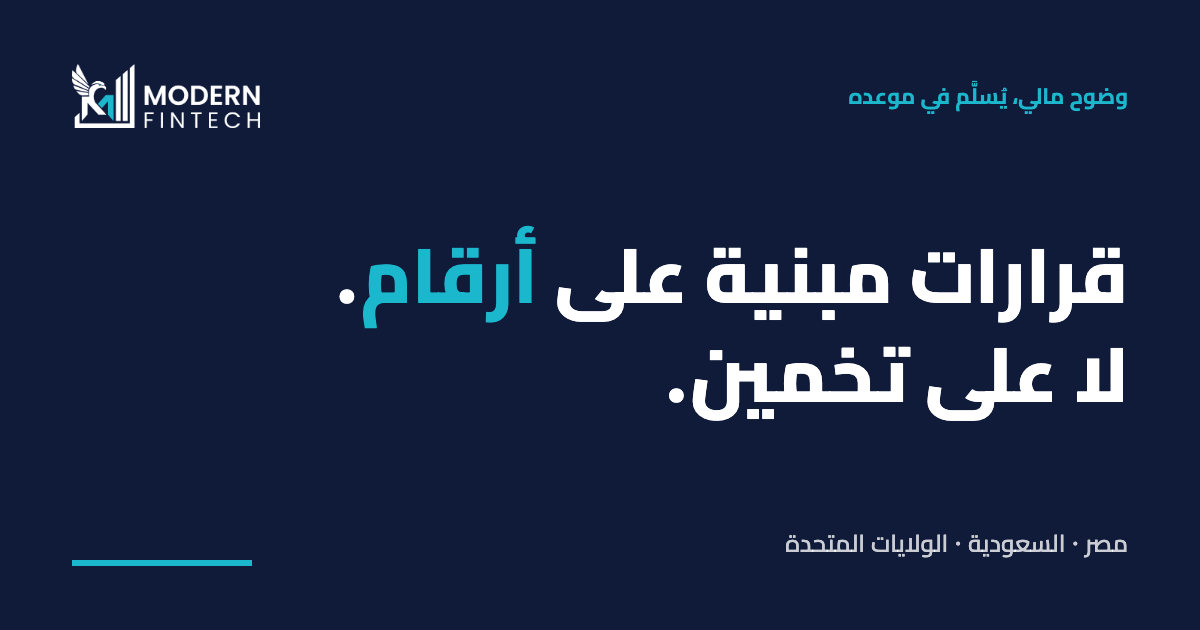
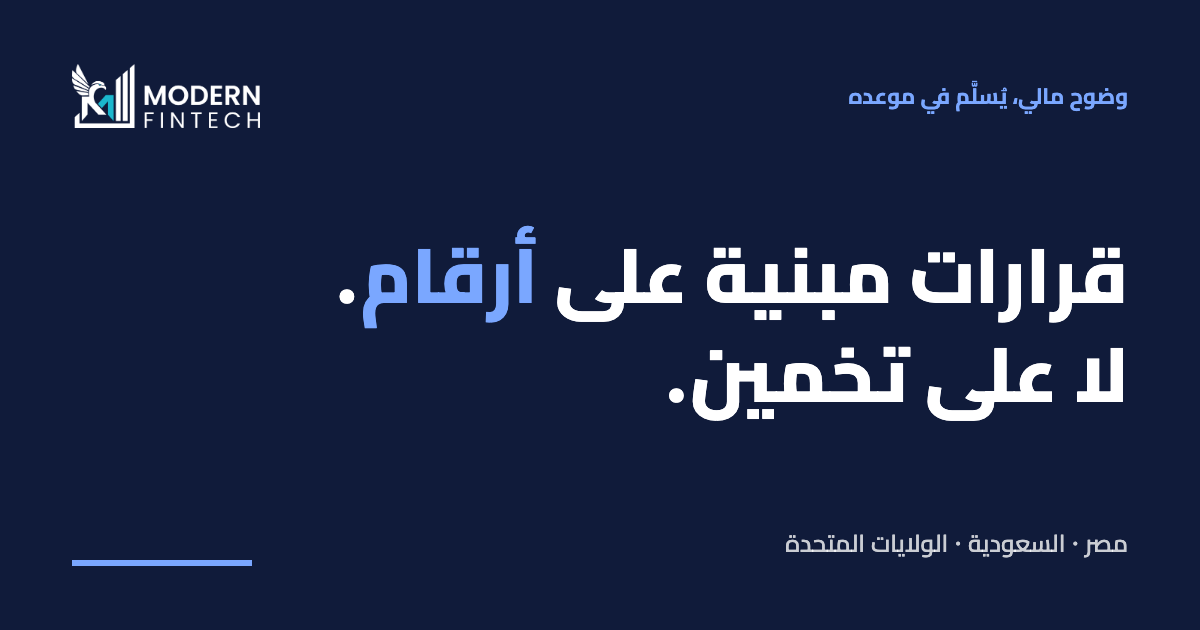
Design system: primary colour switched from cyan to fintech blue (CEO decision)
--blue #1F5FE0 for buttons/fills/rules (white text 5.6:1), --blue-text #1A52C7
for text on light (6.8:1), --blue-on-navy #7AA7FF on navy (7.1:1). Credentials
band is now blue with white text. Logo keeps its cyan; checker fails if the UI
uses it. OG images regenerated.

Changed region(s): [[0.2775, 0.3619, 0.4625, 0.5127], [0.7092, 0.1206, 0.9558, 0.181], [0.0617, 0.8746, 0.2158, 0.9048]]

diff --git a/src/styles/main.css b/src/styles/main.css
@@ -1,6 +1,7 @@
 /* =====================================================================
    MFT website — single stylesheet. No preprocessor, no framework.
-   Brand: navy #101B3A · cyan #1BB7CD · gold #C9A227 · white · mist #F5F7FA
+   Brand: navy #101B3A · blue #1F5FE0 (primary, CEO decision 11 Sep 2026) · gold #C9A227 · white · mist #F5F7FA
+   The logo keeps its cyan #1BB7CD; the UI accent is blue.
    Fonts: Inter (Latin/digits) → Cairo (Arabic). Never letter-space Arabic.
    ===================================================================== */
 
@@ -26,8 +27,12 @@
 :root {
   /* brand */
   --navy: #101B3A;
-  --cyan: #1BB7CD;          /* fills and accents on navy only — 2.4:1 on white, NOT for text on light */
-  --cyan-text: #0E7C8C;     /* same hue, darkened for text on white/mist — 4.9:1 (WCAG AA) */
+  --blue: #1F5FE0;          /* primary: buttons, fills, rules, dots — white text on it = 5.6:1 */
+  --blue-text: #1A52C7;     /* blue for text on white/mist — 6.8:1 (WCAG AA) */
+  --blue-on-navy: #7AA7FF;  /* blue accent on navy sections — 7.1:1; never on white (2.4:1) */
+  --blue-hover: #1A52C7;
+  --blue-tint: rgba(31, 95, 224, 0.12);
+  --cyan: #1BB7CD;          /* logo colour only — not used for UI */
   --gold: #C9A227;          /* one decorative rule per page, never text */
   --white: #FFFFFF;
   --mist: #F5F7FA;
@@ -42,7 +47,7 @@
   --line: #E6E9F0;
   --line-strong: #6B7390;   /* input borders — 4.7:1 on white (non-text ≥ 3:1) */
   --navy-line: rgba(255, 255, 255, 0.12);
-  --shadow-cta: 0 4px 14px rgba(27, 183, 205, 0.35);
+  --shadow-cta: 0 4px 14px rgba(31, 95, 224, 0.30);
   --shadow-card: 0 20px 50px rgba(16, 27, 58, 0.15);
   /* type scale — three sizes per view: display/heading, body, small */
   --fs-display: clamp(2.25rem, 1.35rem + 3.4vw, 4rem);     /* 36 → 64px */
@@ -83,7 +88,7 @@ h1, .display { font-size: var(--fs-display); }
 h2 { font-size: var(--fs-h2); line-height: 1.15; }
 h3 { font-size: var(--fs-body); line-height: 1.35; }
 button, input, select, textarea { font: inherit; color: inherit; }
-::selection { background: var(--cyan); color: var(--navy); }
+::selection { background: var(--blue); color: var(--white); }
 
 /* Arabic: Cairo needs more leading; no tracking, no uppercase. */
 [dir="rtl"] body, [lang="ar"] { line-height: 1.8; }
@@ -111,9 +116,9 @@ button, input, select, textarea { font: inherit; color: inherit; }
   position: absolute; inset-inline-start: 16px; top: -100px; z-index: 100;
   padding: 10px 16px; background: var(--navy); color: var(--white); border-radius: var(--radius); font-weight: 700;
 }
-.skip-link:focus { top: 12px; outline: 3px solid var(--cyan); outline-offset: 2px; }
+.skip-link:focus { top: 12px; outline: 3px solid var(--blue-on-navy); outline-offset: 2px; }
 :focus-visible { outline: 3px solid var(--navy); outline-offset: 3px; border-radius: 3px; }
-.section-navy :focus-visible, .cta-band :focus-visible, .site-footer :focus-visible, .hero-b-left :focus-visible { outline-color: var(--cyan); }
+.section-navy :focus-visible, .cta-band :focus-visible, .site-footer :focus-visible, .hero-b-left :focus-visible { outline-color: var(--blue-on-navy); }
 
 /* ---------- Type components ---------- */
 .eyebrow {
@@ -122,12 +127,12 @@ button, input, select, textarea { font: inherit; color: inherit; }
   font-weight: 700;
   letter-spacing: 2px;
   text-transform: uppercase;
-  color: var(--cyan-text);
+  color: var(--blue-text);
 }
-.section-navy .eyebrow, .hero-b-left .eyebrow { color: var(--cyan); }
-.section-cyan .eyebrow { color: var(--navy); }
-.accent { color: var(--cyan-text); }
-.section-navy .accent, .hero-b .accent { color: var(--cyan); }
+.section-navy .eyebrow, .hero-b-left .eyebrow { color: var(--blue-on-navy); }
+.section-blue .eyebrow { color: var(--white); }
+.accent { color: var(--blue-text); }
+.section-navy .accent, .hero-b .accent { color: var(--blue-on-navy); }
 .lead { font-size: var(--fs-body); color: var(--ink-2); max-width: 62ch; }
 .section-navy .lead, .cta-band .lead { color: var(--on-navy-2); }
 .num {
@@ -136,9 +141,9 @@ button, input, select, textarea { font: inherit; color: inherit; }
   font-size: var(--fs-small);
   font-weight: 700;
   letter-spacing: 1px;
-  color: var(--cyan-text);
+  color: var(--blue-text);
 }
-.section-navy .num { color: var(--cyan); }
+.section-navy .num { color: var(--blue-on-navy); }
 
 /* ---------- Buttons ---------- */
 .btn {
@@ -150,17 +155,17 @@ button, input, select, textarea { font: inherit; color: inherit; }
 }
 .btn-lg { min-height: 52px; padding: 14px 30px; font-weight: 800; }
 .btn-sm { min-height: 40px; padding: 8px 18px; font-size: var(--fs-small); }
-.btn-primary { background: var(--cyan); color: var(--navy); box-shadow: var(--shadow-cta); }
-.btn-primary:hover { background: #22C4DB; transform: translateY(-1px); }
+.btn-primary { background: var(--blue); color: var(--white); box-shadow: var(--shadow-cta); }
+.btn-primary:hover { background: var(--blue-hover); transform: translateY(-1px); }
 .btn-primary:active { transform: translateY(0); }
 .btn-navy { background: var(--navy); color: var(--white); }
 .btn-navy:hover { background: #1A2A57; }
 .btn-link {
   padding-inline: 0; min-height: 0; border: 0; border-radius: 0;
-  color: var(--cyan-text); font-weight: 700; text-decoration: underline; text-underline-offset: 4px; text-decoration-thickness: 2px; text-decoration-color: transparent;
+  color: var(--blue-text); font-weight: 700; text-decoration: underline; text-underline-offset: 4px; text-decoration-thickness: 2px; text-decoration-color: transparent;
 }
 .btn-link:hover { text-decoration-color: currentColor; }
-.section-navy .btn-link, .cta-band .btn-link { color: var(--cyan); }
+.section-navy .btn-link, .cta-band .btn-link { color: var(--blue-on-navy); }
 
 /* ---------- Header ---------- */
 .site-header {
@@ -181,7 +186,7 @@ button, input, select, textarea { font: inherit; color: inherit; }
   border-bottom: 2px solid transparent;
 }
 .site-nav ul a:hover { color: var(--navy); }
-.site-nav ul a[aria-current="page"] { color: var(--navy); border-bottom-color: var(--cyan); }
+.site-nav ul a[aria-current="page"] { color: var(--navy); border-bottom-color: var(--blue); }
 .nav-actions { display: flex; align-items: center; gap: 18px; }
 .lang-switch { font-size: var(--fs-small); font-weight: 700; color: var(--ink-2); padding: 8px 4px; }
 .lang-switch:hover { color: var(--navy); }
@@ -209,7 +214,7 @@ button, input, select, textarea { font: inherit; color: inherit; }
   .site-header.nav-open .site-nav { display: flex; }
   .site-nav ul { flex-direction: column; align-items: stretch; gap: 0; }
   .site-nav ul a { display: block; padding: 14px 0; font-size: var(--fs-body); border-bottom: 1px solid var(--line); }
-  .site-nav ul a[aria-current="page"] { border-bottom-color: var(--line); color: var(--cyan-text); }
+  .site-nav ul a[aria-current="page"] { border-bottom-color: var(--line); color: var(--blue-text); }
   .nav-actions { justify-content: space-between; padding-top: 16px; }
 }
 
@@ -217,7 +222,7 @@ button, input, select, textarea { font: inherit; color: inherit; }
 .section { padding-block: var(--section); }
 .section-mist { background: var(--mist); }
 .section-navy { background: var(--navy); color: var(--on-navy); }
-.section-cyan { background: var(--cyan); color: var(--navy); }
+.section-blue { background: var(--blue); color: var(--white); }
 .section-head { max-width: 820px; margin-bottom: clamp(32px, 4vw, 48px); }
 .section-head .lead { margin-top: 18px; }
 .section-foot { margin-top: clamp(28px, 4vw, 40px); }
@@ -249,7 +254,8 @@ button, input, select, textarea { font: inherit; color: inherit; }
   margin-top: clamp(40px, 6vw, 56px); padding: 28px 0 40px; border-top: 1px solid var(--line);
 }
 .badge { display: flex; align-items: center; gap: 10px; font-size: var(--fs-small); font-weight: 700; color: var(--ink-2); }
-.dot { flex: none; width: 8px; height: 8px; border-radius: 50%; background: var(--cyan); }
+.dot { flex: none; width: 8px; height: 8px; border-radius: 50%; background: var(--blue); }
+.section-navy .dot { background: var(--blue-on-navy); }
 .section-navy .badge { color: var(--on-navy-2); }
 
 /* ---------- Hero B (split dashboard) ---------- */
@@ -263,16 +269,16 @@ button, input, select, textarea { font: inherit; color: inherit; }
 .dashboard-card { width: 100%; max-width: 520px; padding: 28px; background: var(--white); border-radius: 10px; box-shadow: var(--shadow-card); }
 .dc-header { display: flex; justify-content: space-between; align-items: center; margin-bottom: 20px; }
 .dc-title { font-weight: 700; }
-.dc-badge { padding: 4px 10px; border-radius: 4px; background: rgba(27, 183, 205, 0.14); color: var(--cyan-text); font-size: var(--fs-small); font-weight: 700; letter-spacing: 0.5px; }
+.dc-badge { padding: 4px 10px; border-radius: 4px; background: var(--blue-tint); color: var(--blue-text); font-size: var(--fs-small); font-weight: 700; letter-spacing: 0.5px; }
 .kpi-row { display: grid; grid-template-columns: repeat(3, 1fr); gap: 12px; margin-bottom: 24px; }
 .kpi { padding: 14px; background: var(--mist); border-radius: 8px; }
 .kpi-label { font-size: var(--fs-small); font-weight: 600; color: var(--ink-3); text-transform: uppercase; letter-spacing: 0.5px; }
 .kpi-value { margin-top: 6px; font-size: 1.375rem; font-weight: 800; color: var(--navy); }
-.kpi-value.up { color: var(--cyan-text); }
+.kpi-value.up { color: var(--blue-text); }
 .chart-area { border-top: 1px solid var(--line); padding-top: 16px; }
 .bars { display: flex; align-items: flex-end; gap: 10px; height: 130px; }
 .bar { flex: 1; background: var(--navy); border-radius: 3px 3px 0 0; }
-.bar.accent { background: var(--cyan); }
+.bar.accent { background: var(--blue); }
 .chart-caption { margin-top: 10px; font-size: var(--fs-small); font-weight: 600; color: var(--ink-3); text-transform: uppercase; letter-spacing: 0.3px; }
 @media (max-width: 899px) {
   .hero-b { grid-template-columns: 1fr; }
@@ -290,8 +296,8 @@ button, input, select, textarea { font: inherit; color: inherit; }
 .card p { color: var(--ink-2); }
 .card-more { margin-top: 14px; }
 .service-card a { display: inline-block; }
-.service-card a:hover { color: var(--cyan-text); text-decoration: underline; text-underline-offset: 4px; }
-.pillar { padding: 28px; border-top: 3px solid var(--cyan); background: var(--mist); border-radius: 0 0 var(--radius) var(--radius); }
+.service-card a:hover { color: var(--blue-text); text-decoration: underline; text-underline-offset: 4px; }
+.pillar { padding: 28px; border-top: 3px solid var(--blue); background: var(--mist); border-radius: 0 0 var(--radius) var(--radius); }
 .pillar h3 { margin-bottom: 10px; }
 .pillar p { color: var(--ink-2); }
 .step { padding-top: 20px; border-top: 1px solid var(--navy-line); }
@@ -314,15 +320,15 @@ button, input, select, textarea { font: inherit; color: inherit; }
 
 /* Facts (cyan band) */
 .facts { gap: 24px; }
-.fact { display: flex; flex-direction: column; gap: 6px; padding-top: 18px; border-top: 2px solid var(--navy); }
-.fact-value { font-size: var(--fs-display); font-weight: 800; line-height: 1; color: var(--navy); }
-.fact-label { font-size: var(--fs-small); font-weight: 700; color: var(--navy); }
+.fact { display: flex; flex-direction: column; gap: 6px; padding-top: 18px; border-top: 2px solid rgba(255, 255, 255, 0.55); }
+.fact-value { font-size: var(--fs-display); font-weight: 800; line-height: 1; color: var(--white); }
+.fact-label { font-size: var(--fs-small); font-weight: 700; color: var(--white); }
 
 /* Client stories & testimonials */
 .cases { margin-bottom: clamp(32px, 4vw, 48px); }
-.case { padding: 28px; background: var(--white); border-radius: var(--radius); border-top: 3px solid var(--cyan); }
+.case { padding: 28px; background: var(--white); border-radius: var(--radius); border-top: 3px solid var(--blue); }
 .case p { margin: 0; }
-.case-sector { font-size: var(--fs-small); font-weight: 700; color: var(--cyan-text); margin-bottom: 14px !important; }
+.case-sector { font-size: var(--fs-small); font-weight: 700; color: var(--blue-text); margin-bottom: 14px !important; }
 .case-figure { font-size: var(--fs-h2); font-weight: 800; line-height: 1.1; color: var(--navy); }
 .case-label { font-weight: 700; color: var(--navy); margin: 6px 0 14px !important; }
 .case-body { color: var(--ink-2); }
@@ -380,7 +386,7 @@ button, input, select, textarea { font: inherit; color: inherit; }
 
 .check-list li, .dash-list li { position: relative; padding-inline-start: 26px; margin-bottom: 10px; color: var(--ink-2); }
 .check-list li::before, .dash-list li::before {
-  content: ''; position: absolute; inset-inline-start: 0; top: 0.65em; width: 12px; height: 3px; background: var(--cyan);
+  content: ''; position: absolute; inset-inline-start: 0; top: 0.65em; width: 12px; height: 3px; background: var(--blue);
 }
 .dash-list li::before { background: var(--line-strong); }
 .industry-cols h3 { margin-bottom: 14px; }
@@ -421,14 +427,14 @@ button, input, select, textarea { font: inherit; color: inherit; }
 @media (max-width: 599px) { .field-row { grid-template-columns: 1fr; } }
 .field { display: flex; flex-direction: column; gap: 6px; margin-bottom: 18px; }
 .field label { font-size: var(--fs-small); font-weight: 700; color: var(--navy); }
-.req { color: var(--cyan-text); }
+.req { color: var(--blue-text); }
 .hint { font-size: var(--fs-small); color: var(--ink-3); }
 .field input, .field select, .field textarea {
   width: 100%; min-height: 48px; padding: 10px 14px;
   border: 1px solid var(--line-strong); border-radius: 6px; background: var(--white);
 }
 .field textarea { min-height: 120px; resize: vertical; }
-.field input:focus, .field select:focus, .field textarea:focus { outline: 3px solid var(--cyan); outline-offset: 0; border-color: var(--navy); }
+.field input:focus, .field select:focus, .field textarea:focus { outline: 3px solid var(--blue); outline-offset: 0; border-color: var(--navy); }
 .field.invalid input, .field.invalid select, .field.invalid textarea { border-color: #B3261E; }
 .field-error { font-size: var(--fs-small); font-weight: 700; color: #B3261E; }
 .field-check { flex-direction: row; align-items: flex-start; gap: 12px; }
@@ -437,7 +443,7 @@ button, input, select, textarea { font: inherit; color: inherit; }
 .hp { position: absolute; width: 1px; height: 1px; margin: -1px; padding: 0; overflow: hidden; clip: rect(0 0 0 0); white-space: nowrap; border: 0; }
 .form-status { min-height: 0; margin: 0 0 16px; font-weight: 600; color: var(--ink-2); }
 .form-status:empty { display: none; }
-.form-status.ok { padding: 12px 16px; border-radius: 6px; background: #E3F7F9; color: #0B5D69; }
+.form-status.ok { padding: 12px 16px; border-radius: 6px; background: #E6EEFF; color: #143E99; }
 .form-status.err { padding: 12px 16px; border-radius: 6px; background: #FBEAE9; color: #8C1D17; }
 .form-status.info { padding: 12px 16px; border-radius: 6px; background: var(--mist); color: var(--ink-2); }
 .contact-details dl { margin: 20px 0 0; }
@@ -458,5 +464,5 @@ button, input, select, textarea { font: inherit; color: inherit; }
 @media print {
   .site-header, .site-footer, .cta-band, .nav-toggle, .skip-link { display: none !important; }
   .section { padding-block: 24px; }
-  .section-navy, .section-cyan { background: none; color: var(--ink); }
+  .section-navy, .section-blue { background: none; color: var(--ink); }
 }

diff --git a/scripts/check.js b/scripts/check.js
@@ -43,10 +43,11 @@ const PAIRS = [
   ['ink-3', 'white', 4.5, 'hints, captions, footer-size text'],
   ['ink-2', 'mist', 4.5, 'card text on mist sections'],
   ['ink-3', 'mist', 4.5, 'hints on mist'],
-  ['cyan-text', 'white', 4.5, 'eyebrow, accent word, links on white'],
-  ['cyan-text', 'mist', 4.5, 'eyebrow on mist'],
-  ['cyan', 'navy', 4.5, 'eyebrow / numbers on navy sections'],
-  ['navy', 'cyan', 4.5, 'primary CTA label, cyan band text'],
+  ['blue-text', 'white', 4.5, 'eyebrow, accent word, links on white'],
+  ['blue-text', 'mist', 4.5, 'eyebrow on mist'],
+  ['blue-on-navy', 'navy', 4.5, 'eyebrow / numbers / dots on navy sections'],
+  ['white', 'blue', 4.5, 'primary CTA label, blue band text'],
+  ['blue', 'white', 3, 'blue fills, rules and dots as non-text UI (3:1)'],
   ['white', 'navy', 4.5, 'navy sections, footer'],
   ['on-navy-2', 'navy', 4.5, 'secondary text on navy'],
   ['on-navy-3', 'navy', 4.5, 'tertiary text on navy'],
@@ -60,9 +61,10 @@ for (const [fg, bg, min, where] of PAIRS) {
   const line = `${fg} on ${bg} = ${r.toFixed(2)}:1 (min ${min}) — ${where}`;
   r >= min ? ok(line) : fail(line);
 }
-const cyanOnWhite = ratio(token('cyan'), token('white'));
+const lightBlueOnWhite = ratio(token('blue-on-navy'), token('white'));
 const goldOnWhite = ratio(token('gold'), token('white'));
-console.log(`  · reference: brand cyan on white = ${cyanOnWhite.toFixed(2)}:1, gold on white = ${goldOnWhite.toFixed(2)}:1 → never used for text on light backgrounds`);
+console.log(`  · reference: light blue on white = ${lightBlueOnWhite.toFixed(2)}:1, gold on white = ${goldOnWhite.toFixed(2)}:1 → never used for text on light backgrounds`);
+if (/var\(--cyan\)/.test(CSS)) fail('logo cyan is used in the UI (CEO decision: blue is the primary)'); else ok('logo cyan not used for UI');
 // Make sure no rule sets text colour to raw cyan/gold on a light surface.
 if (/color:\s*var\(--gold\)/.test(CSS)) fail('CSS sets a text colour to --gold');
 else ok('gold is never used as a text colour');

diff --git a/scripts/og-image.js b/scripts/og-image.js
@@ -30,12 +30,12 @@ function html(c) {
 body{width:1200px;height:630px;background:#101B3A;color:#fff;font-family:Inter,Cairo,sans-serif;padding:64px 72px;display:flex;flex-direction:column;justify-content:space-between}
 .top{display:flex;justify-content:space-between;align-items:center;direction:ltr}
 .top img{height:64px}
-.eyebrow{font-size:22px;font-weight:700;color:#1BB7CD;${rtl ? '' : 'letter-spacing:3px;text-transform:uppercase;'}}
+.eyebrow{font-size:22px;font-weight:700;color:#7AA7FF;${rtl ? '' : 'letter-spacing:3px;text-transform:uppercase;'}}
 h1{font-size:${rtl ? 76 : 80}px;font-weight:800;line-height:${rtl ? 1.3 : 1.08};max-width:1000px}
-h1 .a{color:#1BB7CD}
+h1 .a{color:#7AA7FF}
 .bottom{display:flex;justify-content:space-between;align-items:flex-end}
 .tag{font-size:24px;font-weight:600;color:rgba(255,255,255,.78)}
-.rule{width:180px;height:6px;background:#1BB7CD}
+.rule{width:180px;height:6px;background:#7AA7FF}
 </style></head><body>
 <div class="top"><img src="${LOGO_FILE}" alt=""><span class="eyebrow" dir="${c.dir}">${c.home.hero.eyebrow}</span></div>
 <h1>${headline}</h1>

diff --git a/src/templates/pages/home.js b/src/templates/pages/home.js
@@ -108,7 +108,7 @@ module.exports = function home(ctx, opts = {}) {
   </div>
 </section>
 
-<section class="section section-cyan" aria-labelledby="proof-title">
+<section class="section section-blue" aria-labelledby="proof-title">
   <div class="container">
     <div class="section-head"><p class="eyebrow">${t(H.proof.eyebrow)}</p><h2 id="proof-title">${t(H.proof.title)}</h2></div>
     <ul class="grid grid-4 facts">${facts}</ul>

diff --git a/README.md b/README.md
@@ -77,8 +77,8 @@ The pricing section is written but hidden (`site.config.js → showPricingSlot: 
 
 ## Brand rules enforced in code
 
-- Colours: navy `#101B3A`, cyan `#1BB7CD`, gold `#C9A227`, white, mist `#F5F7FA`. Nothing else except derived text tints.
-- **Cyan on white fails WCAG AA (2.4:1).** Brand cyan is used only as a fill (CTA, dots, rules) or on navy. Text in the cyan hue on light backgrounds uses `--cyan-text: #0E7C8C` (same hue, 4.9:1). `npm run check` fails if any token pair drops below AA.
+- Colours: navy `#101B3A`, **blue `#1F5FE0`** (primary — Ahmed's decision, 11 Sep 2026: the dominant colour is blue, not the logo's cyan), gold `#C9A227`, white, mist `#F5F7FA`. The logo keeps its own cyan; the UI never uses it.
+- Blue tokens: `--blue #1F5FE0` for buttons, fills, rules, dots (white text on it 5.6:1); `--blue-text #1A52C7` for text on white/mist (6.8:1); `--blue-on-navy #7AA7FF` for accents on navy (7.1:1, never on white). `npm run check` fails if any token pair drops below AA or if `--cyan` is used in the UI.
 - **Gold** appears once per page as a 64×3 rule under the page eyebrow. Never as text (2.4:1 on white); the checker fails if it is.
 - Fonts: `'Inter','Cairo'`. Inter has no Arabic glyphs, so Arabic falls through to Cairo automatically; digits and Latin stay Inter. Cairo is only downloaded on Arabic pages (`unicode-range`).
 - Arabic: no `letter-spacing`, no `text-transform`, looser line-height. All enforced by `[dir="rtl"]` overrides.
